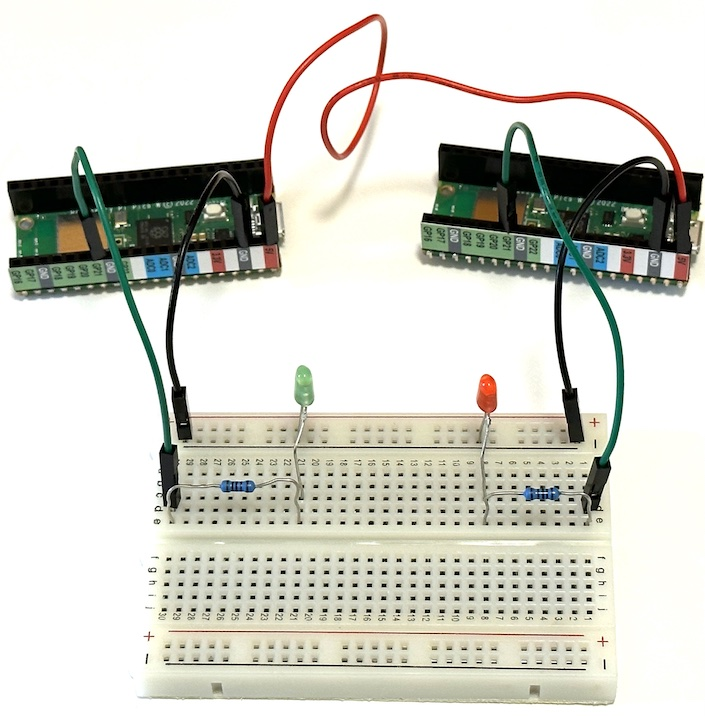
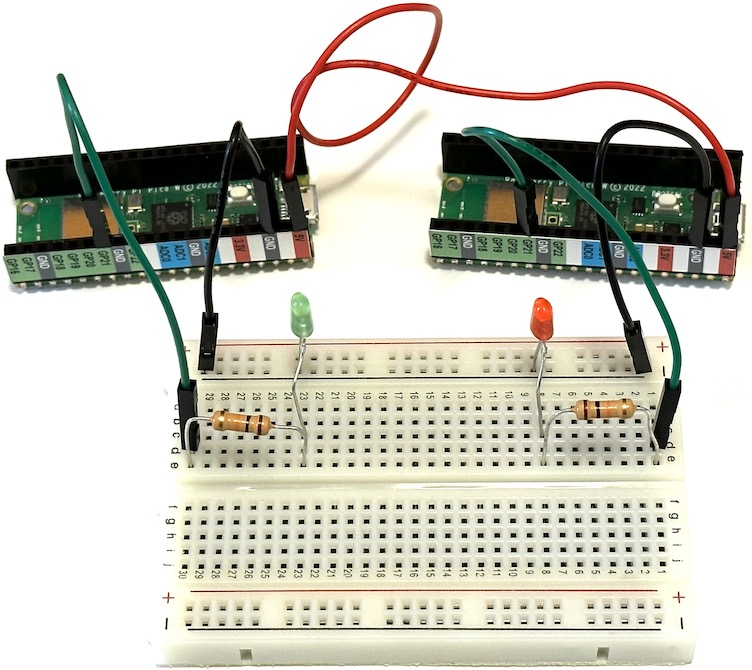
wip

diff --git a/projects/Chatter.md b/projects/Chatter.md
@@ -10,7 +10,7 @@ Build the following circuit using both Pico modules:
 
 ![wired communications circuit](../img/wired-comms-circuit.jpg)
 
-The right-hand Pico will be our transmitter, using the red LED, and the left-hand Pico is our receiver using the green LED.
+The right-hand Pico will be our transmitter, using the red LED, and the left-hand Pico is our receiver using the green LED.  Note that we are using the larger 10K resistors to set the LED brightness.
 
 Connect the right-hand transmitter Pico to USB and enter the following program:
 ```python
@@ -338,15 +338,15 @@ Although the term "wireless" usually implies communication via electromagnetic w
 
 To establish our wireless "bus", first **remove the jumper wire between GP20 and GP22**. Next, we will point a pair of IR transmit-receive pairs at each other on the breadboard:
 
-![IR bus circuit](img/IRbus.jpg)
+![IR bus circuit](../img/wireless-comms-circuit.jpg)
 
-The transmitter's TX (GP22) now drives the IR LED of one pair (through a 1K series resistor) and the receiver's RX (GP20) listens to the IR phototransistor of the other pair (using an internal pull-up resistor).
+The (left-hand) transmitter's TX (GP22) now drives the IR LED of one pair (through a 1K series resistor) and the (right-hand) receiver's RX (GP20) listens to the IR phototransistor of the other pair (using an internal pull-up resistor).
 
-Before building this circuit, you will need to carefully bend the leads of each IR pair following these steps:
+Before building this circuit, you may need to carefully bend the leads of each IR pair following these steps:
 
 ![IR lead bending](img/IRleads.jpg)
 
-You will need scissors or nail clippers (or small wire cutters if you have them) to clip the two longer leads in the final step.
+You will need scissors or nail clippers (or small wire cutters if you have them) to clip the two longer leads in the final step. The leads on each IR pair are straight when purchased, but someone may have already bent one or more of the IR pairs in your kit (but you should still check they are bent correctly).
 
 Here is a closeup of one IR pair inserted into the breadboard, with green labels identifying which rows of the breadboard are connected to the GND, RX and TX of the IR pair, and green arrows showing the locations of the IR sensor and emitter:
 
